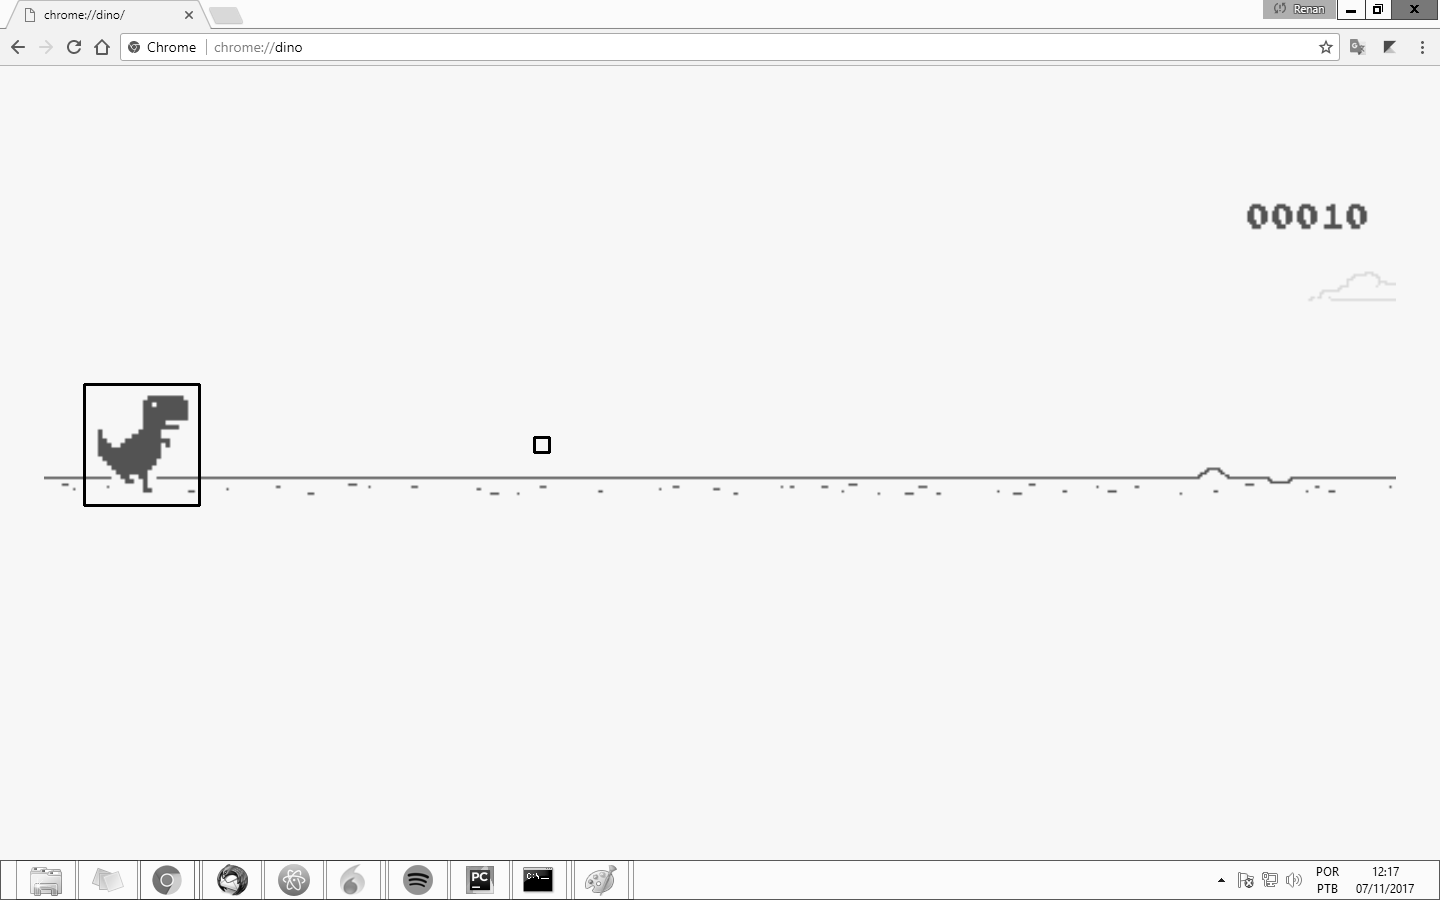
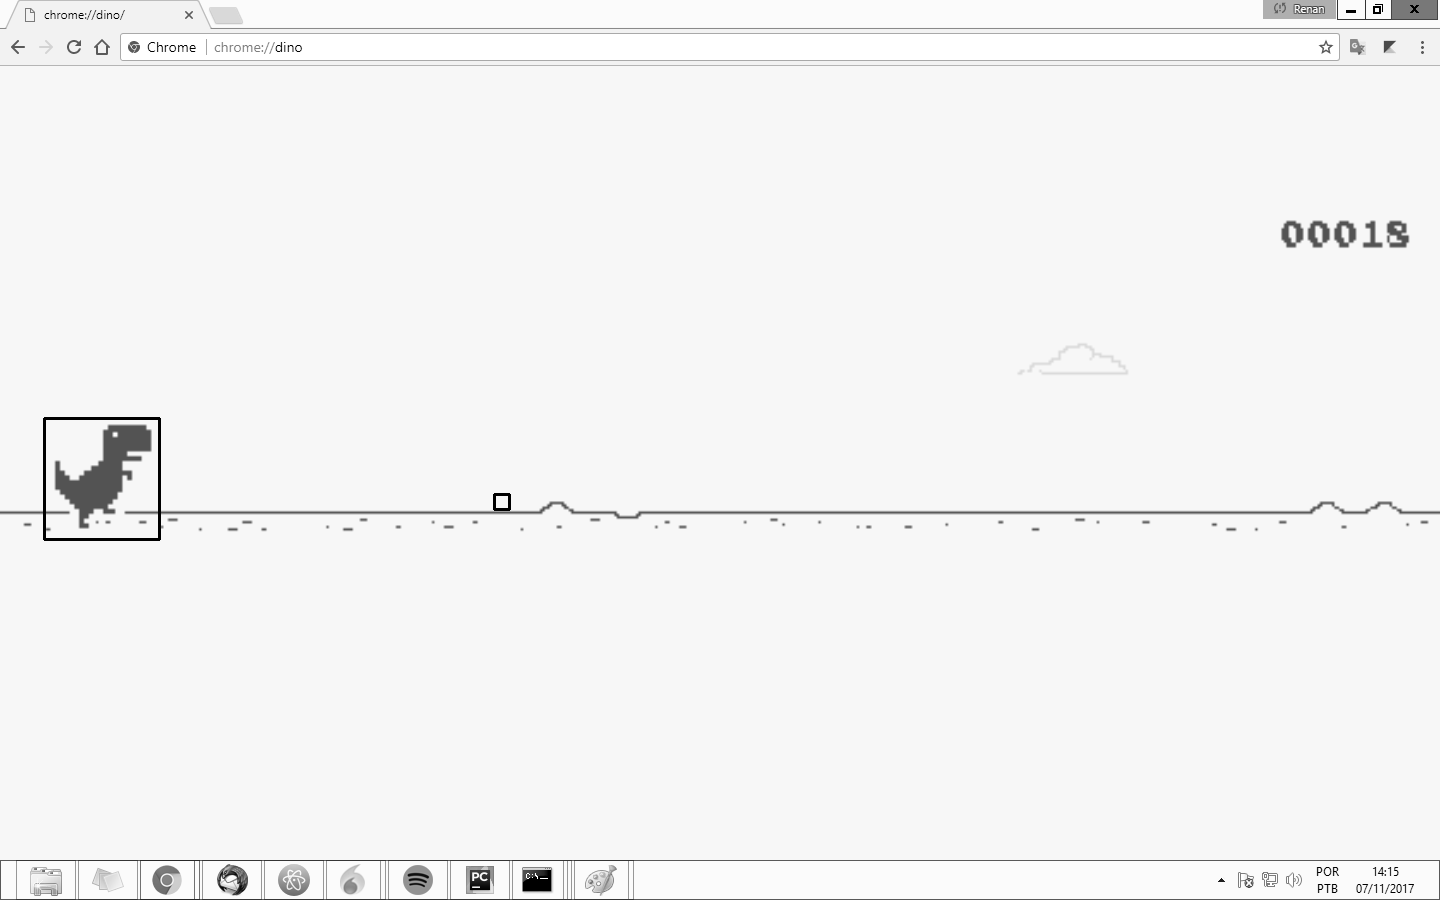
Detection pixel fixed

Changed region(s): [[0.0, 0.4044, 1.0, 0.6222], [0.8438, 0.2178, 1.0, 0.28], [0.375, 0.9644, 0.4062, 0.9956]]

diff --git a/main.py b/main.py
@@ -21,10 +21,10 @@ def findDino():
   bottom_right = (top_left[0] + w, top_left[1] + h)
 
   cv2.rectangle(imgcv, top_left, bottom_right, 0, 2)
-  cv2.rectangle(imgcv, (top_left[0] + 450, top_left[1] + 53), (bottom_right[0] + 350, bottom_right[1] - 53), 0, 2)
+  cv2.rectangle(imgcv, (top_left[0] + 450, top_left[1] + 86), (bottom_right[0] + 350, bottom_right[1] - 40), 0, 2)
   cv2.imwrite("match.png", imgcv)
 
-  return [top_left[1] + 53, bottom_right[1] - 53, top_left[0] + 450, bottom_right[0] + 350]
+  return [top_left[1] + 86, bottom_right[1] - 40, top_left[0] + 450, bottom_right[0] + 350]
 
 def pular():
   send = "{SPACE}"
@@ -40,7 +40,7 @@ def ajustaImg(cod):
   imgcort = imgcv[cod[0]:cod[1], cod[2]:cod[3]]
   cv2.imwrite("s.png", imgcort)
 
-  if cv2.countNonZero(imgcort) < 10:
+  if cv2.countNonZero(imgcort) < 112:
     print("Jump")
     pular()
 
